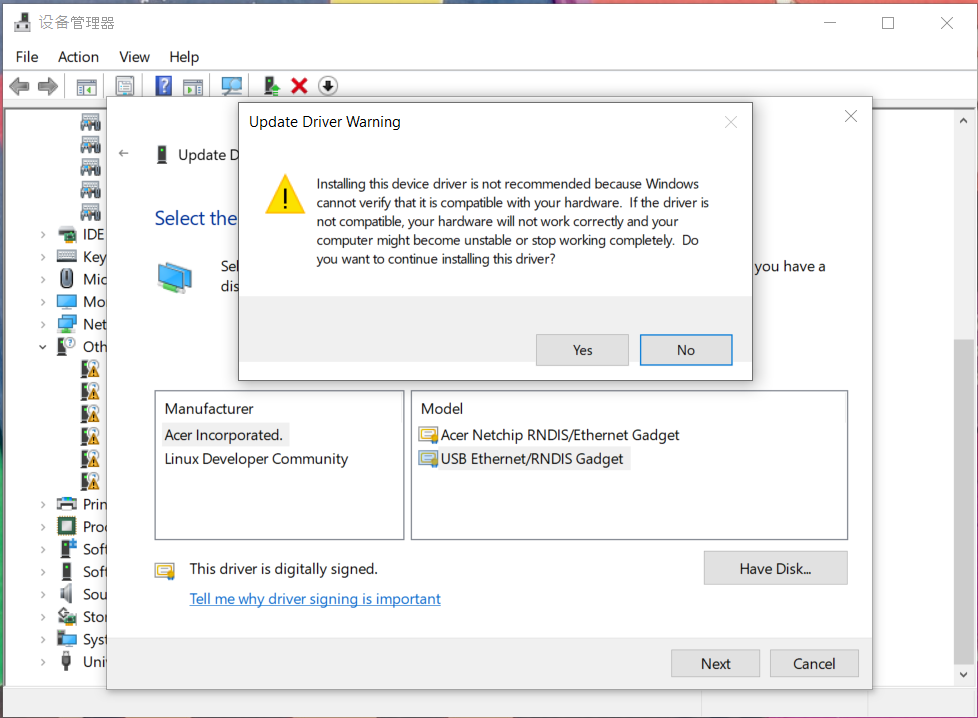
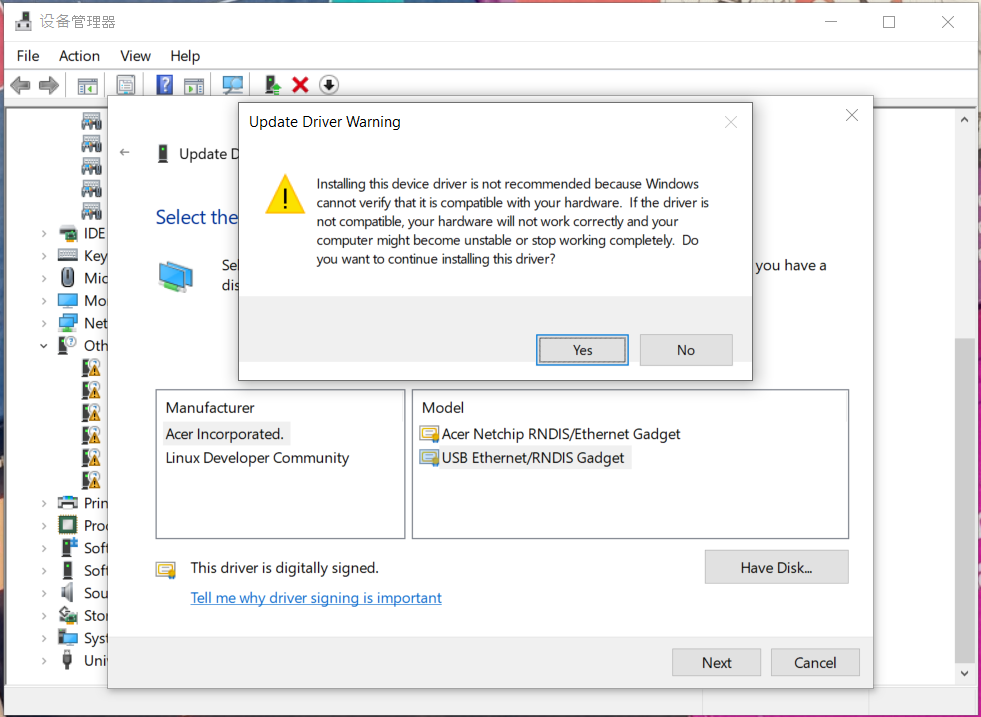
docs: duo update setup

diff --git a/docs/duo/getting-started/setup.md b/docs/duo/getting-started/setup.md
@@ -37,7 +37,7 @@ We have enabled RNDIS and DHCP on the system by default in order to use USB netw
 
 ![rndis-step6](/docs/duo/rndis-step6.png)
 
-8. Ignore warning message
+8. Ignore warning message and click "Yes"
 
 ![rndis-step7](/docs/duo/rndis-step7.png)
 

diff --git a/docs/duo/getting-started/windows-rndis-dirver.md b/docs/duo/getting-started/windows-rndis-dirver.md
@@ -48,7 +48,7 @@ This is another way to install the RNDIS driver on windows, download the driver 
 
 ![rndis-step10](/docs/duo/rndis-b10.png)
 
-12. Ignore warning message
+12. Ignore warning message and click "Yes"
 
 ![rndis-step11](/docs/duo/rndis-b11.png)
 
